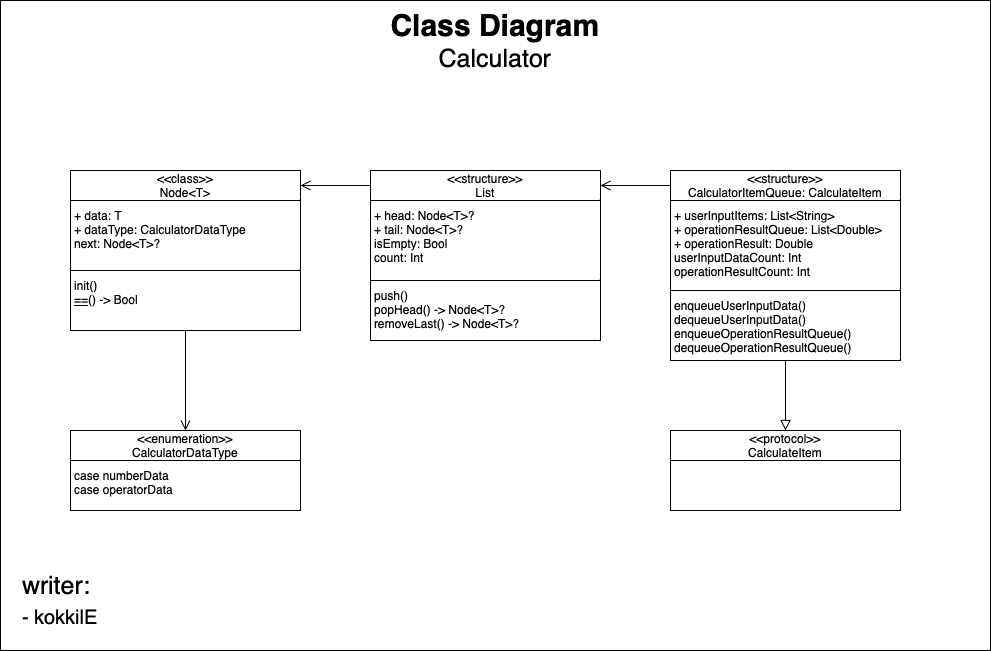
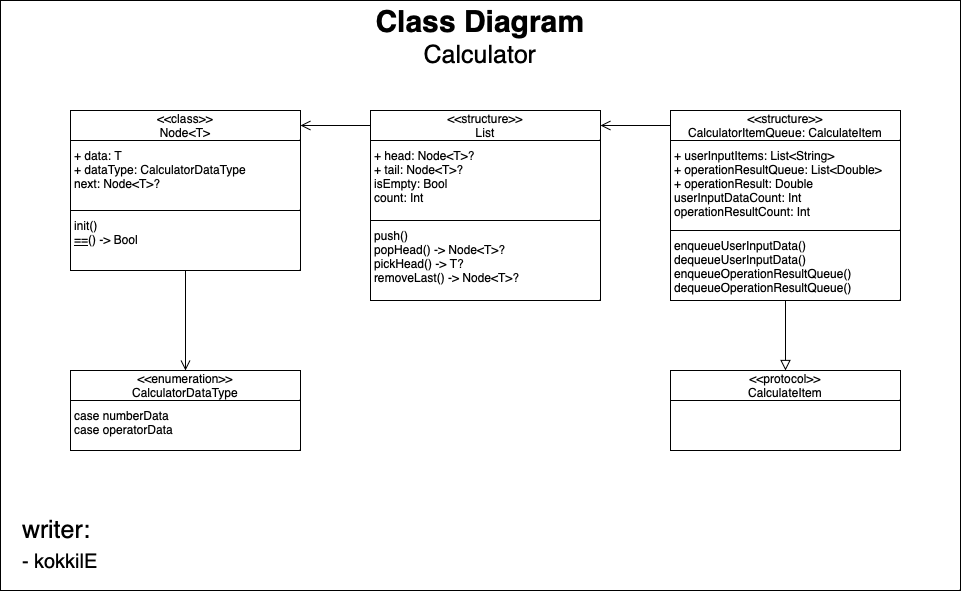
refactor: 네이밍 수정 및 Class Diagram 최신화

diff --git a/Calculator/Calculator/Model/CalculatorItemQueue.swift b/Calculator/Calculator/Model/CalculatorItemQueue.swift
@@ -35,10 +35,6 @@ struct CalculatorItemQueue: CalculateItem {
     mutating func dequeueOperationResultQueue() -> Node<Double>? {
         return operationResultQueue.removeLast()
     }
-    
-    mutating func addUserInputItems(_ data: String) {
-        
-    }
 }
 
 

diff --git a/Calculator/CalculatorItemQueueTests/CalculatorItemQueueTests.swift b/Calculator/CalculatorItemQueueTests/CalculatorItemQueueTests.swift
@@ -102,5 +102,4 @@ final class CalculatorItemQueueTests: XCTestCase {
         // then
         XCTAssertEqual(sut?.operationResultCount, expectation)
     }
-
 }

diff --git a/Calculator/ListTests/ListTests.swift b/Calculator/ListTests/ListTests.swift
@@ -2,7 +2,7 @@
 //  ListTests.swift
 //  ListTests
 //
-//  Created by 조향래 on 2023/01/25.
+//  Created by kokkilE on 2023/01/25.
 //
 
 import XCTest

diff --git a/Calculator/NodeTests/NodeTests.swift b/Calculator/NodeTests/NodeTests.swift
@@ -2,7 +2,7 @@
 //  NodeTests.swift
 //  NodeTests
 //
-//  Created by 조향래 on 2023/01/25.
+//  Created by kokkilE on 2023/01/25.
 //
 
 import XCTest
